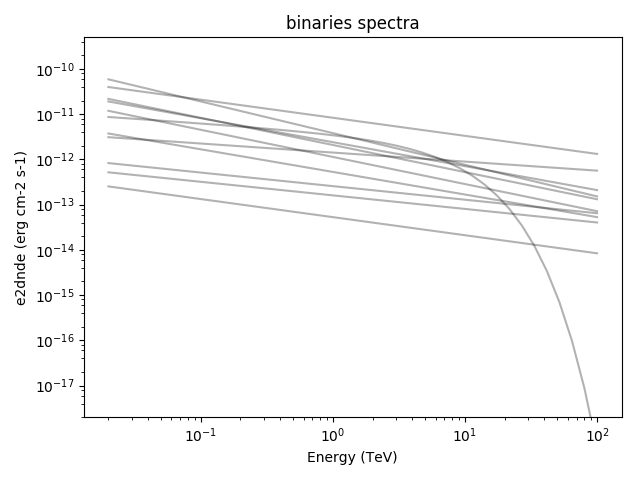
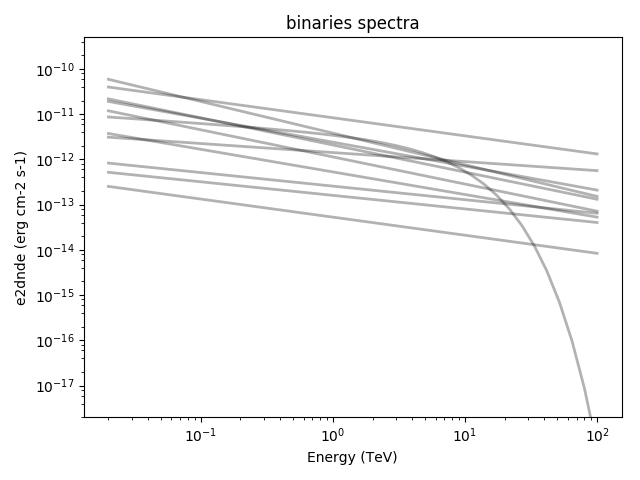
update

diff --git a/sky_model_checks/source_parameter_distributions.py b/sky_model_checks/source_parameter_distributions.py
@@ -388,9 +388,16 @@ def plot_spectral_models(component):
 
     models = component['models']
     for idx, model in enumerate(models):
-        if idx == 100: break
+        # if idx == 100: break
         # log.debug('Plotting spectral model for: {}'.format(model.name()))
-        plot_spectral_model(model.spectral(), ax, alpha=0.3, color='black')
+        plot_kwargs = dict(color='black')
+        if component['tag'] in ['pwn', 'snr']:
+            plot_kwargs['alpha'] = 0.2
+            plot_kwargs['lw'] = 1
+        else:
+            plot_kwargs['alpha'] = 0.3
+            plot_kwargs['lw'] = 2
+        plot_spectral_model(model.spectral(), ax, plot_kwargs)
 
     ax.set_title('{} spectra'.format(component['tag']))
     ax.loglog()
@@ -404,7 +411,7 @@ def plot_spectral_models(component):
     fig.savefig(filename)
 
 
-def plot_spectral_model(model, ax, **kwargs):
+def plot_spectral_model(model, ax, plot_kwargs):
     energies = Energy.equal_log_spacing(emin=0.02, emax=100, unit='TeV', nbins=40)
     fluxes = []
     for energy in energies:
@@ -414,7 +421,7 @@ def plot_spectral_model(model, ax, **kwargs):
     dnde = u.Quantity(fluxes, 'cm-2 s-1 MeV-1')
     e2dnde = (energies ** 2 * dnde).to('erg cm-2 s-1')
 
-    ax.plot(energies.value, e2dnde.value, **kwargs)
+    ax.plot(energies.value, e2dnde.value, **plot_kwargs)
     # 1/0
 
 
